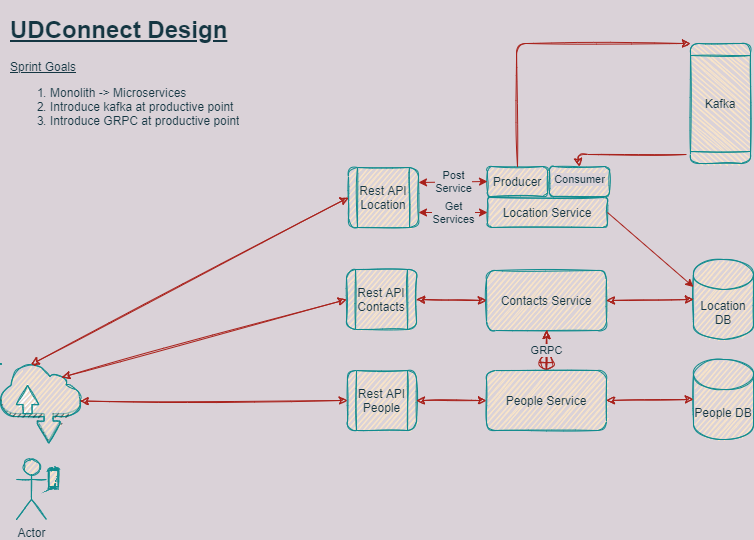
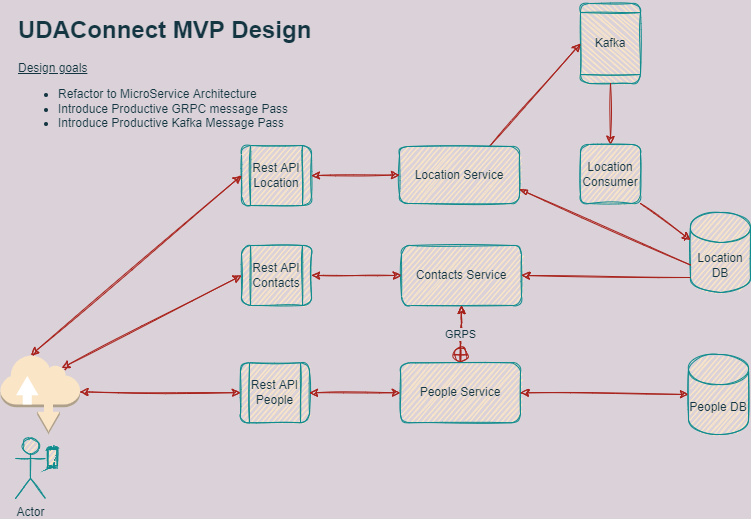
Seperated location consume into service

diff --git a/modules/api-location-consume-svc/app/config.py b/modules/api-location-consume-svc/app/config.py
@@ -1,0 +1,58 @@
+import os
+from typing import List, Type
+
+DB_USERNAME = os.environ["DB_USERNAME"]
+DB_PASSWORD = os.environ["DB_PASSWORD"]
+DB_HOST = os.environ["DB_HOST"]
+DB_PORT = os.environ["DB_PORT"]
+DB_NAME = os.environ["DB_NAME"]
+
+
+class BaseConfig:
+    CONFIG_NAME = "base"
+    USE_MOCK_EQUIVALENCY = False
+    DEBUG = False
+    SQLALCHEMY_TRACK_MODIFICATIONS = False
+
+
+class DevelopmentConfig(BaseConfig):
+    CONFIG_NAME = "dev"
+    SECRET_KEY = os.getenv(
+        "DEV_SECRET_KEY", "You can't see California without Marlon Widgeto's eyes"
+    )
+    DEBUG = True
+    SQLALCHEMY_TRACK_MODIFICATIONS = False
+    TESTING = False
+    SQLALCHEMY_DATABASE_URI = (
+        f"postgresql://{DB_USERNAME}:{DB_PASSWORD}@{DB_HOST}:{DB_PORT}/{DB_NAME}"
+    )
+
+
+class TestingConfig(BaseConfig):
+    CONFIG_NAME = "test"
+    SECRET_KEY = os.getenv("TEST_SECRET_KEY", "Thanos did nothing wrong")
+    DEBUG = True
+    SQLALCHEMY_TRACK_MODIFICATIONS = False
+    TESTING = True
+    SQLALCHEMY_DATABASE_URI = (
+        f"postgresql://{DB_USERNAME}:{DB_PASSWORD}@{DB_HOST}:{DB_PORT}/{DB_NAME}"
+    )
+
+
+class ProductionConfig(BaseConfig):
+    CONFIG_NAME = "prod"
+    SECRET_KEY = os.getenv("PROD_SECRET_KEY", "I'm Ron Burgundy?")
+    DEBUG = False
+    SQLALCHEMY_TRACK_MODIFICATIONS = False
+    TESTING = False
+    SQLALCHEMY_DATABASE_URI = (
+        f"postgresql://{DB_USERNAME}:{DB_PASSWORD}@{DB_HOST}:{DB_PORT}/{DB_NAME}"
+    )
+
+
+EXPORT_CONFIGS: List[Type[BaseConfig]] = [
+    DevelopmentConfig,
+    TestingConfig,
+    ProductionConfig,
+]
+config_by_name = {cfg.CONFIG_NAME: cfg for cfg in EXPORT_CONFIGS}

diff --git a/modules/api-location-consume-svc/app/udaconnect/kafkaConsumer.py b/modules/api-location-consume-svc/app/udaconnect/kafkaConsumer.py
@@ -1,8 +1,7 @@
 import logging
 from kafka import KafkaConsumer
 import threading
-import time
-from typing import List
+from typing import Dict, List
 import json
 from json import loads
 from app.udaconnect.services import LocationService
@@ -10,7 +9,7 @@ from app.udaconnect.services import LocationService
 TOPIC_NAME = 'location'
 KAFKA_SERVER = 'kafka:9092'
 
-def kafka_consumer(time):
+def kafka_consumer(app_context):
 
     consumer = KafkaConsumer(
         bootstrap_servers=KAFKA_SERVER,
@@ -21,12 +20,13 @@ def kafka_consumer(time):
     while True:
         for message in consumer:
             result = json.loads(message.value.decode('utf-8'))
-            logging.info('Received kafka message: ')
-            LocationService.kafka_consumed_create(result)
-    
+            logging.info('Received kafka message for person_id = %s', result["person_id"])
+            with app_context:
+                LocationService.kafka_consumed_create(result)
+        
   
 def start_server(app_context):
-    logging.info('Starting server')
-    t = threading.Thread(target=kafka_consumer, args=[1])
+    logging.info('Starting kafka consuming thread')
+    t = threading.Thread(target=kafka_consumer, args=[app_context])
     t.start()
-    logging.info('Consuming from kafka on: %s', {KAFKA_SERVER})
+    logging.info('Consumer startup completed. Consuming from kafka on: %s', KAFKA_SERVER)

diff --git a/modules/api-location-svc/app/udaconnect/services.py b/modules/api-location-svc/app/udaconnect/services.py
@@ -1,14 +1,13 @@
 import logging
 import json
 from datetime import datetime, timedelta
-from typing import Dict, List
+from typing import Dict
 from app import db
 from app.udaconnect.models import Location
 from app.udaconnect.schemas import LocationSchema
 from flask import g, Response
 from geoalchemy2.functions import ST_AsText, ST_Point
 from sqlalchemy.sql import text
-
 
 class LocationService:
     @staticmethod
@@ -33,7 +32,7 @@ class LocationService:
         TOPIC_NAME = 'location'
         KAFKA_SERVER = 'kafka:9092'
         try:
-            logging.info('Sending kafka message: ')
+            logging.info('Sending kafka message with person_id = %s', location["person_id"])
             send_bytes = json.dumps(location).encode('utf-8')
             kafka_producer = g.kafka_producer
             kafka_producer.send(TOPIC_NAME, send_bytes)
@@ -47,12 +46,5 @@ class LocationService:
             logging.info(f"response: {response}")
         return response
 
-    @staticmethod
-    def kafka_consumed_create(location: Dict):
-        new_location = Location()
-        new_location.person_id = location["person_id"]
-        new_location.creation_time = location["creation_time"]
-        new_location.coordinate = ST_Point(location["latitude"], location["longitude"])
-        db.session.add(new_location)
-        db.session.commit()
+
     

diff --git a/modules/api-location-consume-svc/app/__init__.py b/modules/api-location-consume-svc/app/__init__.py
@@ -3,34 +3,27 @@ from flask import Flask, jsonify
 from flask_cors import CORS
 from flask_restx import Api
 from flask_sqlalchemy import SQLAlchemy
-from kafka import KafkaProducer
-from flask import Flask, jsonify, g
+from flask import Flask, jsonify
 db = SQLAlchemy()
+
 
 def create_app(env=None):
     from app.config import config_by_name
     from app.routes import register_routes
+    from app.udaconnect.kafkaConsumer import start_server as start_server
 
     app = Flask(__name__)
     app.config.from_object(config_by_name[env or "test"])
     api = Api(app, title="UdaConnect API", version="0.1.0")
-
     CORS(app)  # Set CORS for development
-
     register_routes(api, app)
     db.init_app(app)
-
-    @app.before_request
-    def before_request():
-        # Set up a Kafka producer
-        KAFKA_SERVER = 'kafka:9092'
-        producer = KafkaProducer(bootstrap_servers=KAFKA_SERVER)
-        # Setting Kafka to g enables us to use this
-        # in other parts of our application
-        g.kafka_producer = producer
 
     @app.route("/health")
     def health():
         return jsonify("healthy")
-  
+
+    logging.info('Calling Starting kafka server')
+    start_server(app.app_context())
+    logging.info('Returning Starting kafka server')
     return app

diff --git a/modules/api-location-consume-svc/app/udaconnect/controllers.py b/modules/api-location-consume-svc/app/udaconnect/controllers.py
@@ -1,0 +1,24 @@
+#from datetime import datetime
+
+from app.udaconnect.models import Location
+from app.udaconnect.schemas import LocationSchema
+from app.udaconnect.services import LocationService
+from flask import request
+from flask_accepts import accepts, responds
+from flask_restx import Namespace, Resource
+
+DATE_FORMAT = "%Y-%m-%d"
+
+api = Namespace("UdaConnect", description="Connections via geolocation.")  # noqa
+
+#This service consume location "post" messages from Kafka and processes them
+
+@api.route("/locations")
+class LocationResource(Resource):
+    @accepts(schema=LocationSchema)
+    @responds(schema=LocationSchema)
+    def post(self) -> Location:
+        request.get_json()
+        location: Location = LocationService.create(request.get_json())
+        return location
+

diff --git a/modules/api-location-consume-svc/app/udaconnect/services.py b/modules/api-location-consume-svc/app/udaconnect/services.py
@@ -1,0 +1,21 @@
+import logging
+from datetime import datetime, timedelta
+from typing import Dict
+from app import db
+from app.udaconnect.models import Location
+
+
+from geoalchemy2.functions import ST_AsText, ST_Point
+from sqlalchemy.sql import text
+
+
+class LocationService:
+    @staticmethod
+    def kafka_consumed_create(location: Dict):
+        new_location = Location()
+        new_location.person_id = location["person_id"]
+        new_location.creation_time = location["creation_time"]
+        new_location.coordinate = ST_Point(location["latitude"], location["longitude"])
+        db.session.add(new_location)
+        db.session.commit()
+    

diff --git a/modules/api-location-consume-svc/app/udaconnect/models.py b/modules/api-location-consume-svc/app/udaconnect/models.py
@@ -1,4 +1,5 @@
 from __future__ import annotations
+
 from dataclasses import dataclass
 from datetime import datetime
 from app import db  # noqa
@@ -8,7 +9,6 @@ from shapely.geometry.point import Point
 from sqlalchemy import BigInteger, Column, Date, DateTime, ForeignKey, Integer, String
 from sqlalchemy.dialects.postgresql import JSONB, UUID
 from sqlalchemy.ext.hybrid import hybrid_property
-
 
 class Person(db.Model):
     __tablename__ = "person"

diff --git a/modules/api-location-svc/app/udaconnect/controllers.py b/modules/api-location-svc/app/udaconnect/controllers.py
@@ -18,7 +18,6 @@ api = Namespace("UdaConnect", description="Connections via geolocation.")  # noq
 #locations. Posts will be published to a kafka queue with a 
 #response=202 returned immediatly after request validation.
 
-
 @api.route("/locations")
 class LocationResource(Resource):
     @accepts(schema=LocationSchema)

diff --git a/modules/api-location-consume-svc/app/udaconnect/__init__.py b/modules/api-location-consume-svc/app/udaconnect/__init__.py
@@ -1,0 +1,7 @@
+from app.udaconnect.models import Location  # noqa
+from app.udaconnect.schemas import LocationSchema # noqa
+
+
+def register_routes(api, app, root="api"):
+    from app.udaconnect.controllers import api as udaconnect_api
+    api.add_namespace(udaconnect_api, path=f"/{root}")

diff --git a/modules/api-location-consume-svc/app/udaconnect/schemas.py b/modules/api-location-consume-svc/app/udaconnect/schemas.py
@@ -3,6 +3,7 @@ from geoalchemy2.types import Geometry as GeometryType
 from marshmallow import Schema, fields
 from marshmallow_sqlalchemy.convert import ModelConverter as BaseModelConverter
 
+
 class LocationSchema(Schema):
     id = fields.Integer()
     person_id = fields.Integer()

diff --git a/modules/api-location-consume-svc/wsgi.py b/modules/api-location-consume-svc/wsgi.py
@@ -1,0 +1,8 @@
+import os
+import logging
+from app import create_app
+
+logging.basicConfig(format='%(levelname)s: %(asctime)s %(message)s', level=logging.INFO)
+app = create_app(os.getenv("FLASK_ENV") or "test")
+if __name__ == "__main__":
+    app.run(debug=True)

diff --git a/modules/api-location-consume-svc/app/routes.py b/modules/api-location-consume-svc/app/routes.py
@@ -1,0 +1,5 @@
+def register_routes(api, app, root="api"):
+    from app.udaconnect import register_routes as attach_udaconnect
+
+    # Add routes
+    attach_udaconnect(api, app)
